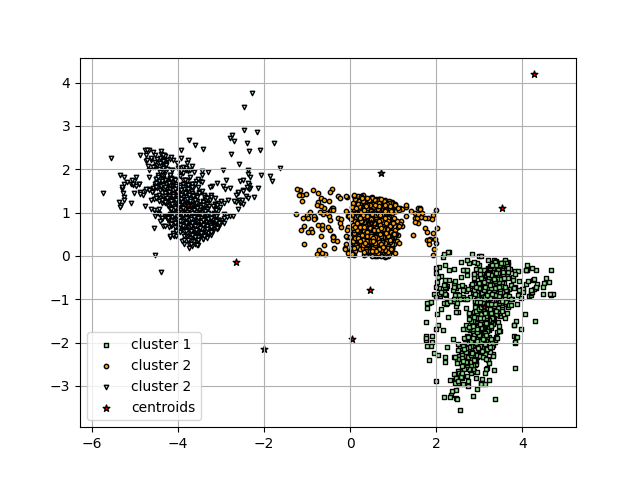
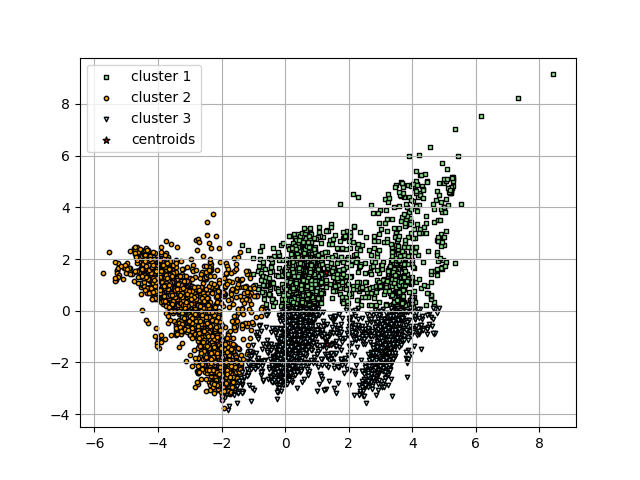
configuring n clusters

diff --git a/HW/HW4/SmithEvanEE4331HW4/Part1/hw4-part1.py b/HW/HW4/SmithEvanEE4331HW4/Part1/hw4-part1.py
@@ -34,6 +34,7 @@ csv_file_path_2015 = "Dataset/gt_2015.csv"
 distortion_clusters_file_path = "Part1/Results/distortion_clusters.png"
 
 clusters_file_path_2011 = "Part1/Results/2011clusters.png"
+clusters_file_path_2011a = "Part1/Results/2011clusters_a.png"
 clusters_file_path_2012 = "Part1/Results/2012clusters.png"
 clusters_file_path_2013 = "Part1/Results/2013clusters.png"
 clusters_file_path_2014 = "Part1/Results/2014clusters.png"
@@ -71,8 +72,10 @@ for i in range(1, 11):
                 max_iter=300,
                 random_state=0)
     km.fit(df_2011[1:])
+    print("\n"+ str(distortions)+"\n")
     distortions.append(km.inertia_)
 
+print(distortions)
 ##########################################################################################################################
 print("done.")
 # plot the distortion
@@ -97,7 +100,14 @@ X_std = sc.fit_transform(X_2011)
 
 pca = PCA(n_components=2)
 X_pca_2011 = pca.fit_transform(X_std)
+km = KMeans(n_clusters=3,
+                init='k-means++',
+                n_init=10,
+                max_iter=300,
+                random_state=42)
+
 y_km = km.fit_predict(X_pca_2011)
+print("\n\n" + str(km.inertia_)) 
 
 plt.scatter(X_pca_2011[y_km == 0, 0],
             X_pca_2011[y_km == 0, 1],
@@ -113,7 +123,7 @@ plt.scatter(X_pca_2011[y_km == 2, 0],
             X_pca_2011[y_km == 2, 1],
             s=10, c='lightblue',
             marker='v', edgecolor='black',
-            label='cluster 2')
+            label='cluster 3')
 plt.scatter(km.cluster_centers_[:, 0],
             km.cluster_centers_[:, 1],
             s=25, marker='*',
@@ -122,6 +132,61 @@ plt.scatter(km.cluster_centers_[:, 0],
 plt.legend(scatterpoints=1)
 plt.grid()
 plt.savefig(clusters_file_path_2011)
+plt.close()
+
+
+
+
+
+
+##########################################################################################################################
+print("done.")
+# plot the clusters
+print("plotting clusters...")
+##########################################################################################################################
+
+km = KMeans(n_clusters=5,
+                init='k-means++',
+                n_init=10,
+                max_iter=300,
+                random_state=42)
+
+y_km = km.fit_predict(X_pca_2011)
+print("\n\n" + str(km.inertia_)) 
+
+plt.scatter(X_pca_2011[y_km == 0, 0],
+            X_pca_2011[y_km == 0, 1],
+            s=10, c='lightgreen',
+            marker='s', edgecolor='black',
+            label='cluster 1')
+plt.scatter(X_pca_2011[y_km == 1, 0],
+            X_pca_2011[y_km == 1, 1],
+            s=10, c='orange',
+            marker='o', edgecolor='black',
+            label='cluster 2')
+plt.scatter(X_pca_2011[y_km == 2, 0],
+            X_pca_2011[y_km == 2, 1],
+            s=10, c='lightblue',
+            marker='v', edgecolor='black',
+            label='cluster 3')
+plt.scatter(X_pca_2011[y_km == 3, 0],
+            X_pca_2011[y_km == 3, 1],
+            s=10, c='orange',
+            marker='o', edgecolor='black',
+            label='cluster 4')
+plt.scatter(X_pca_2011[y_km == 4, 0],
+            X_pca_2011[y_km == 4, 1],
+            s=10, c='red',
+            marker='v', edgecolor='black',
+            label='cluster 5')
+plt.scatter(km.cluster_centers_[:, 0],
+            km.cluster_centers_[:, 1],
+            s=25, marker='*',
+            c='red', edgecolor='black',
+            label='centroids')
+plt.legend(scatterpoints=1)
+plt.grid()
+plt.savefig(clusters_file_path_2011a)
 plt.close()
 ##########################################################################################################################
 print("done.")
